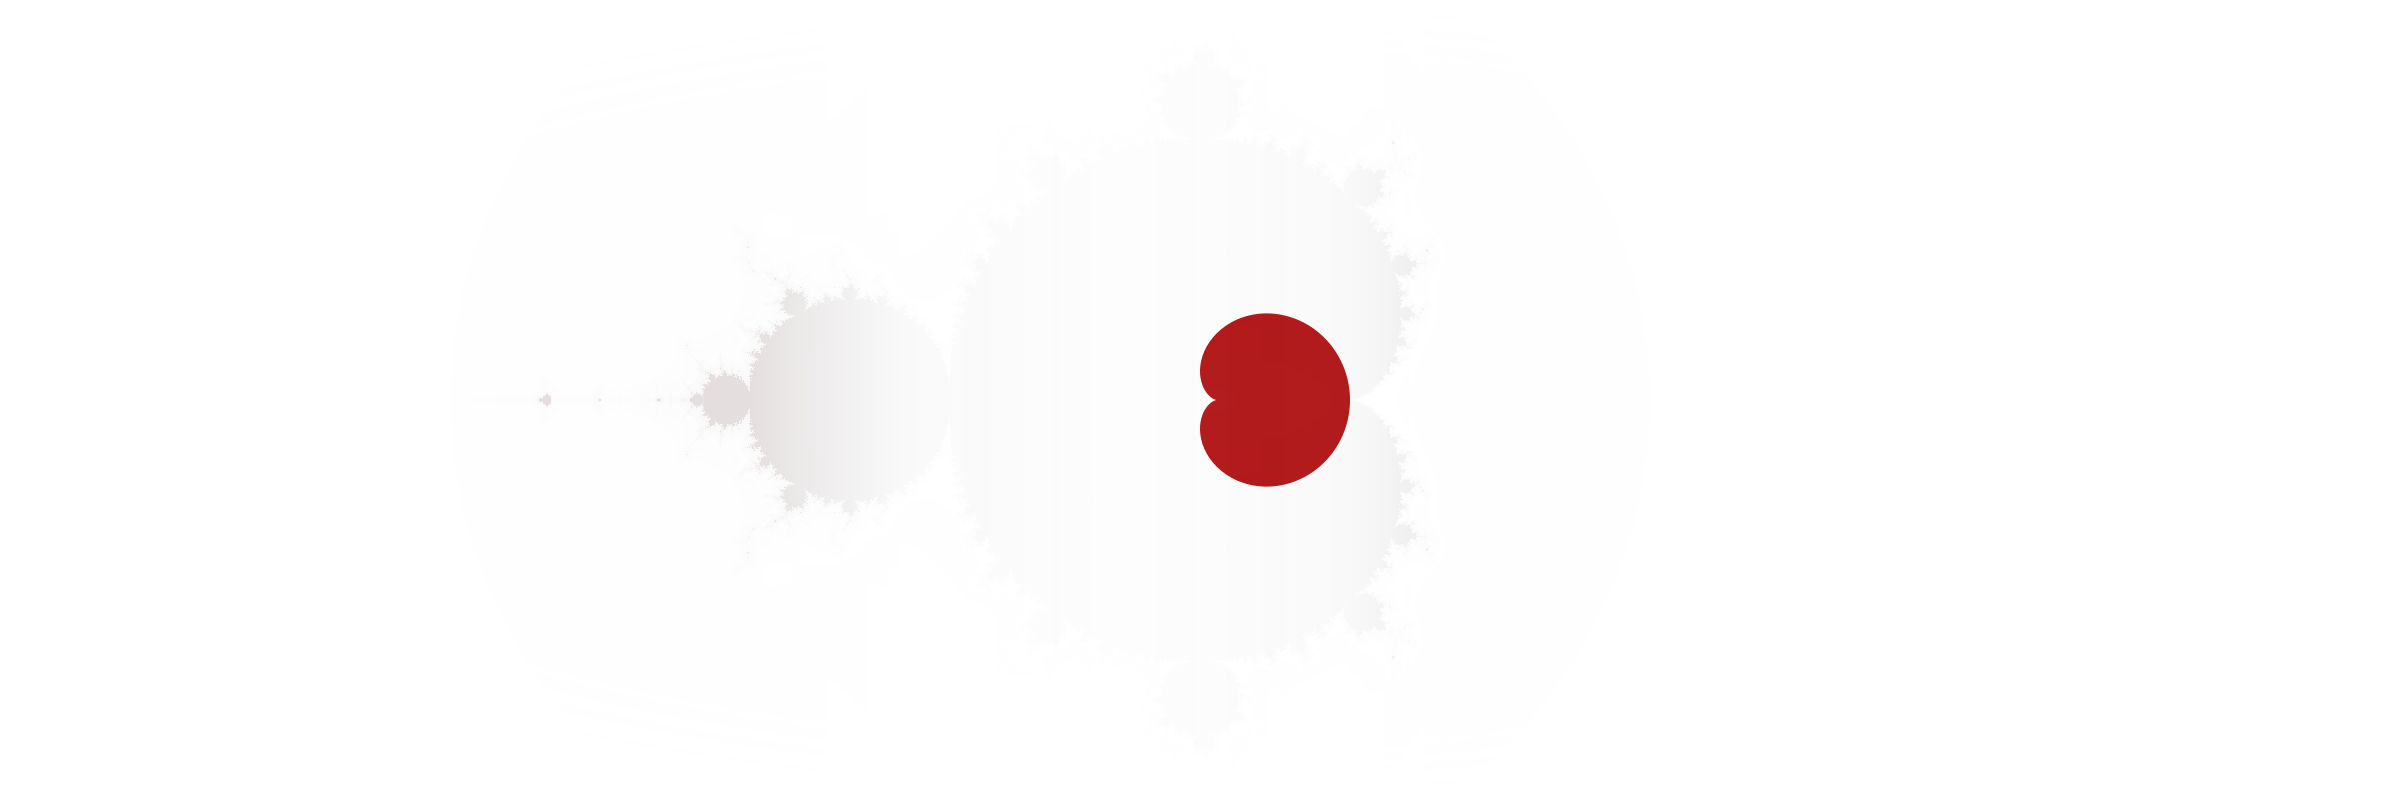
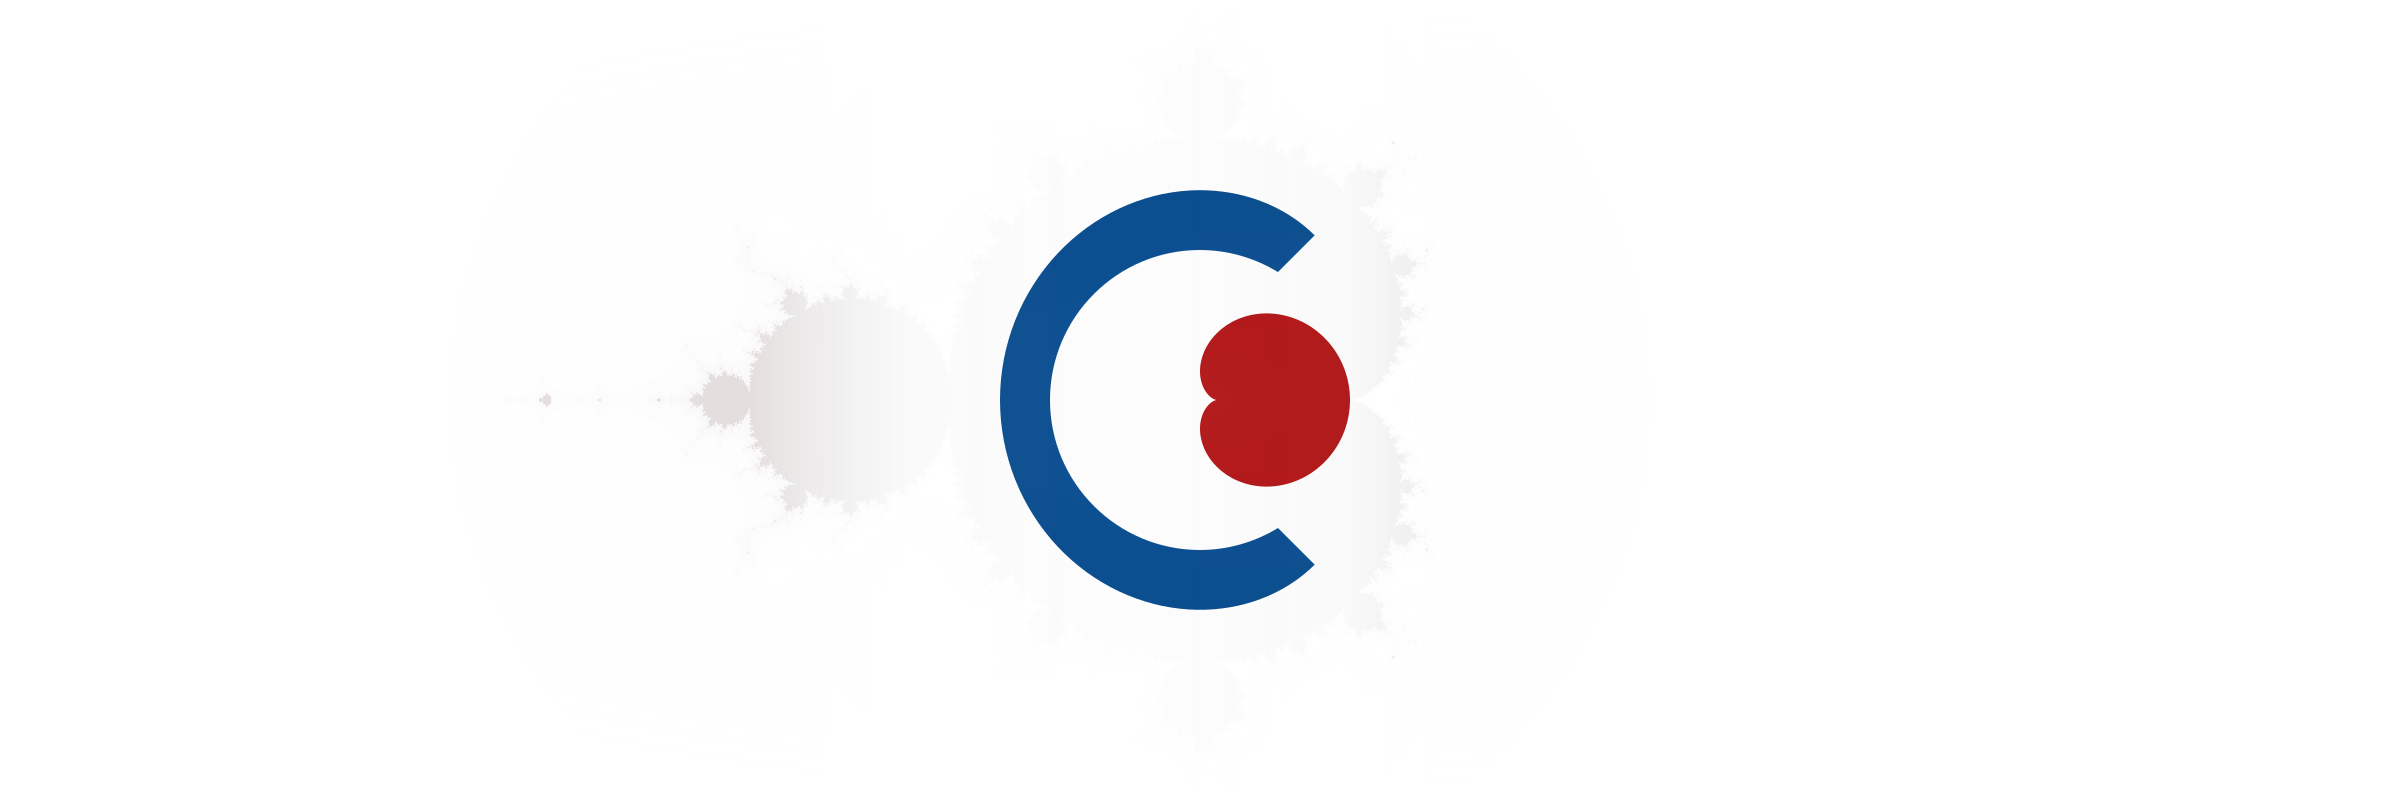
Blue header

Changed region(s): [[0.4062, 0.2188, 0.5625, 0.7812]]

diff --git a/cardioid.js b/cardioid.js
@@ -25,10 +25,13 @@ Vector.polar = function(a, r=1) {
 	return new Vector(r*Math.cos(a), r*Math.sin(a))
 }
 
+const finish = new Event('finish');
+
 class Cardioid {
-	constructor(canvas, colours={}) {
+	constructor(canvas, colours={}, unitSize=0.15) {
 		this.canvas = canvas;
 		this.ctx = canvas.getContext('2d');
+		this.running = true;
 
 		this.t = {}; this.m = {}; this.p = {}; this.style = {};
 		this.t.ti  = 0.2; // pause between steps
@@ -45,16 +48,22 @@ class Cardioid {
 		this.t.dur = this.t.t6 + this.t.dt6 + this.t.ti; // end
 
 		this.p.nPoints = 400;
-		this._getMeasures();
+		this._getMeasures(unitSize);
 		this._getCardPoints();
-		window.onresize = (function(){this._getMeasures(); this._getCardPoints(); this.nextFrame();}).bind(this);
+		window.onresize = (function(){this._getMeasures(unitSize); this._getCardPoints(); this.nextFrame();}).bind(this);
 
-		this.style.bg = colours.bg || null;
 		this.style.red = colours.red || '#b00d0e';
 		this.style.grey = colours.grey || '#646464';
 		this.style.white = colours.white || '#fff';
+		this.style.colBG = colours.bg || null;
+		this.style.colBrot = colours.brot || this.style.red;
+		this.style.colDraw = colours.draw || this.style.colBrot;
+		this.style.colEvol = colours.evol || this.style.white;
+		this.style.colC = colours.c || this.style.white;
+		this.style.colBase = colours.base || this.style.red;
+		this.style.colRoll = colours.roll || this.style.grey;
 		this.style.faded = 0.3;
-		this.style.sw1 = this.m.circR/30;
+		this.style.sw1 = this.m.circR/22.5;
 		this.style.sw2 = this.m.circR/15;
 
 		this.brot = new Image(this.m.brotSize, this.m.brotSize);
@@ -68,6 +77,7 @@ class Cardioid {
 
 	setTime(t) {
 		this.t.start = performance.now() - 1000*t;
+		this.running = true;
 		this.nextFrame();
 	}
 
@@ -81,8 +91,8 @@ class Cardioid {
 		this.t.t = (timestamp - this.t.start)/1000;
 
 		this.ctx.clearRect(0, 0, this.m.W, this.m.H);
-		if (this.style.bg) {
-			this.ctx.fillStyle = this.style.bg;
+		if (this.style.colBG) {
+			this.ctx.fillStyle = this.style.colBG;
 			this.ctx.fillRect(0, 0, this.m.W, this.m.H);
 		}
 		this.ctx.save();
@@ -96,13 +106,13 @@ class Cardioid {
 					lineEnd = -2*this.m.circR - this._ease(this.t.t, this.t.t1c, this.t.dt1c, 0, this.m.circR);
 
 			this.ctx.lineWidth = this.style.sw1;
-			this.ctx.strokeStyle = this.style.red;
+			this.ctx.strokeStyle = this.style.colBase;
 			this._circle(circ1R); this.ctx.stroke();
-			this.ctx.strokeStyle = this.style.grey;
+			this.ctx.strokeStyle = this.style.colRoll;
 			this._circle(circ2R, -2*this.m.circR, 0); this.ctx.stroke();
 			this._drawShape([[-2*this.m.circR, 0], [lineEnd, 0]]); this.ctx.stroke();
 
-			this.ctx.fillStyle = this.style.grey;
+			this.ctx.fillStyle = this.style.colRoll;
 			this._circle(pointsR, -2*this.m.circR, 0); this.ctx.fill();
 			this._circle(pointsR, lineEnd, 0); this.ctx.fill();
 
@@ -112,18 +122,19 @@ class Cardioid {
 					rollC = Vector.polar(rollAngle, -2*this.m.circR),
 					cardPoint = rollC.add(Vector.polar(2*rollAngle, -this.m.circR));
 
-			this.ctx.strokeStyle = this.style.red;
+			this.ctx.strokeStyle = this.style.colDraw;
 			this.ctx.lineWidth = this.style.sw2;
 			this._drawShape(this.p.cardPoints, rollAngle); this.ctx.stroke();
 
+			this.ctx.strokeStyle = this.style.colBase;
 			this.ctx.lineWidth = this.style.sw1;
 			this._circle(this.m.circR); this.ctx.stroke();
 
-			this.ctx.strokeStyle = this.style.grey;
+			this.ctx.strokeStyle = this.style.colRoll;
 			this._circle(this.m.circR, rollC.x, rollC.y); this.ctx.stroke();
 			this._drawShape([rollC.xy, cardPoint.xy]); this.ctx.stroke();
 
-			this.ctx.fillStyle = this.style.grey;
+			this.ctx.fillStyle = this.style.colRoll;
 			this._circle(this.m.pointR, rollC.x, rollC.y); this.ctx.fill();
 			this._circle(this.m.pointR, cardPoint.x, cardPoint.y); this.ctx.fill();
 
@@ -133,19 +144,21 @@ class Cardioid {
 					newR = this._ease(this.t.t, this.t.t3, this.t.dt3, this.m.circR, this.m.curv.r),
 					newX = this._ease(this.t.t, this.t.t3, this.t.dt3, -2*this.m.circR, this.m.curv.evolute.x),
 					paraX = this._ease(this.t.t, this.t.t3, this.t.dt3, cardX, cardX + this.m.cardBorder),
-					fadeOut = this._rgba(this.style.red, this._ease(this.t.t, this.t.t3, this.t.dt3, 1, this.style.faded));
+					fadeDraw = this._rgba(this.style.colDraw, this._ease(this.t.t, this.t.t3, this.t.dt3, 1, this.style.faded)),
+					fadeBase = this._rgba(this.style.colBase, this._ease(this.t.t, this.t.t3, this.t.dt3, 1, this.style.faded));
 
-			this.ctx.strokeStyle = fadeOut;
+			this.ctx.strokeStyle = fadeDraw;
 			this.ctx.lineWidth = this.style.sw2;
 			this._drawShape(this.p.cardPoints); this.ctx.stroke();
+			this.ctx.strokeStyle = fadeBase;
 			this.ctx.lineWidth = this.style.sw1;
 			this._circle(this.m.circR); this.ctx.stroke();
 
-			this.ctx.strokeStyle = this.style.grey;
+			this.ctx.strokeStyle = this.style.colRoll;
 			this._circle(newR, newX, 0); this.ctx.stroke();
 			this._drawShape([[cardX, 0], [paraX, 0], [newX, 0]]); this.ctx.stroke();
 
-			this.ctx.fillStyle = this.style.grey;
+			this.ctx.fillStyle = this.style.colRoll;
 			this._circle(this.m.pointR, newX, 0); this.ctx.fill();
 			this._circle(this.m.pointR, paraX, 0); this.ctx.fill();
 
@@ -165,11 +178,11 @@ class Cardioid {
 			let paraXY = this.m.curv.point.add(this.m.curv.unit.mult(paraR));
 
 
-			this.ctx.strokeStyle = this._rgba(this.style.red, this.style.faded);
+			this.ctx.strokeStyle = this._rgba(this.style.colDraw, this.style.faded);
 			this.ctx.lineWidth = this.style.sw2;
 			this._drawShape(this.p.cardPoints); this.ctx.stroke()
 
-			this.ctx.strokeStyle = this.style.red;
+			this.ctx.strokeStyle = this.style.colDraw;
 			this._drawShape(this.p.paraPoints, evolAngle); this.ctx.stroke()
 			this._drawShape(this.p.evolPoints, evolAngle); this.ctx.stroke()
 
@@ -181,21 +194,22 @@ class Cardioid {
 				this._drawShape(this.p.line225); this.ctx.stroke();
 			}
 
-			this.ctx.strokeStyle = this._rgba(this.style.red, this.style.faded);
+			this.ctx.strokeStyle = this._rgba(this.style.colBase, this.style.faded);
 			this._circle(this.m.circR); this.ctx.stroke()
 
-			this.ctx.strokeStyle = this.style.grey;
+			this.ctx.strokeStyle = this.style.colRoll;
 			this._circle(this.m.curv.r, this.m.curv.evolute.x, this.m.curv.evolute.y); this.ctx.stroke();
 			this._drawShape([this.m.curv.point.xy, paraXY.xy, this.m.curv.evolute.xy]); this.ctx.stroke()
 
-			this.ctx.fillStyle = this.style.grey;
+			this.ctx.fillStyle = this.style.colRoll;
 			this._circle(this.m.pointR, paraXY.x, paraXY.y); this.ctx.fill();
 			this._circle(this.m.pointR, this.m.curv.evolute.x, this.m.curv.evolute.y); this.ctx.fill();
 
 		} else if (this.t.t < this.t.t6) {
 			// inner circle
-			let fadeIn = this._rgba(this.style.red, this._ease(this.t.t, this.t.t5, this.t.dt5, this.style.faded, 1)),
-			    fadeOut = this._rgba(this.style.grey, this._ease(this.t.t, this.t.t5, this.t.dt5, 1, 0)),
+			let fadeBase = this._rgba(this.style.colBase, this._ease(this.t.t, this.t.t5, this.t.dt5, this.style.faded, 1)),
+			    fadeDraw = this._rgba(this.style.colDraw, this._ease(this.t.t, this.t.t5, this.t.dt5, this.style.faded, 1)),
+			    fadeRoll = this._rgba(this.style.colRoll, this._ease(this.t.t, this.t.t5, this.t.dt5, 1, 0)),
 			    paraXY = this.m.curv.point.add(this.m.curv.unit.mult(this.m.cardBorder)),
 			    circ1R = this._ease(this.t.t, this.t.t5, this.t.dt5, this.m.circR, this.m.innerR),
 			    circ1X = -this._ease(this.t.t, this.t.t5, this.t.dt5, 0, this.m.originOffsetFinal),
@@ -203,7 +217,7 @@ class Cardioid {
 			    strokeWidth = this._ease(this.t.t, this.t.t5, this.t.dt5, this.style.sw1, this.style.sw2);
 			this.ctx.translate(moveCentre, 0);
 
-			this.ctx.strokeStyle = this.style.red;
+			this.ctx.strokeStyle = this.style.colDraw;
 			this.ctx.lineWidth = strokeWidth;
 			this._drawShape(this.p.line135); this.ctx.stroke();
 			this._drawShape(this.p.line225); this.ctx.stroke();
@@ -212,18 +226,19 @@ class Cardioid {
 			this._drawShape(this.p.paraPoints); this.ctx.stroke();
 			this._drawShape(this.p.evolPoints); this.ctx.stroke();
 
-			this.ctx.strokeStyle = fadeIn;
+			this.ctx.strokeStyle = fadeDraw;
 			this._drawShape(this.p.cardPoints); this.ctx.stroke();
 
+			this.ctx.strokeStyle = fadeBase;
 			this.ctx.lineWidth = strokeWidth;
 			this._circle(circ1R, circ1X, 0); this.ctx.stroke();
 
-			this.ctx.strokeStyle = fadeOut;
+			this.ctx.strokeStyle = fadeRoll;
 			this.ctx.lineWidth = this.style.sw1;
 			this._circle(this.m.curv.r, this.m.curv.evolute.x, this.m.curv.evolute.y); this.ctx.stroke();
 			this._drawShape([this.m.curv.point.xy, paraXY.xy, this.m.curv.evolute.xy]); this.ctx.stroke();
 
-			this.ctx.fillStyle = fadeOut;
+			this.ctx.fillStyle = fadeRoll;
 			this._circle(this.m.pointR, paraXY.x); this.ctx.fill();
 			this._circle(this.m.pointR, this.m.curv.evolute.x, this.m.curv.evolute.y); this.ctx.fill();
 
@@ -235,14 +250,14 @@ class Cardioid {
 			this.ctx.translate(this.m.originOffsetFinal - this.m.originOffsetInitial, 0);
 
 			this._drawBrot();
-			this.ctx.fillStyle = this.style.red;
+			this.ctx.fillStyle = this.style.colBrot;
 			this._drawShape(this.p.cardPoints); this.ctx.fill();
-			this.ctx.fillStyle = this.style.white;
+			this.ctx.fillStyle = this.style.colC;
 			this._drawShape(this.p.paraPoints); this.ctx.fill();
-			this.ctx.fillStyle = this.style.red;
+			this.ctx.fillStyle = this.style.colBrot;
 			this._drawShape(this.p.cMask); this.ctx.fill();
 			this._circle(this.m.innerR, -this.m.originOffsetFinal, 0); this.ctx.fill();
-			this.ctx.fillStyle = this.style.white;
+			this.ctx.fillStyle = this.style.colEvol;
 			this._drawShape(this.p.evolPoints); this.ctx.fill();
 
 			// fade the above in
@@ -253,20 +268,24 @@ class Cardioid {
 			this.ctx.globalCompositeOperation = "source-over";
 
 			if (strokeWidth > 0) {
-				this.ctx.strokeStyle = this.style.red;
+				this.ctx.strokeStyle = this.style.colDraw;
 				this.ctx.lineWidth = strokeWidth;
 				this._drawShape(this.p.cardPoints); this.ctx.stroke();
 				this._drawShape(this.p.paraPoints); this.ctx.stroke();
-				this._circle(this.m.innerR, -this.m.originOffsetFinal, 0); this.ctx.stroke()
 				this._drawShape(this.p.line135); this.ctx.stroke();
 				this._drawShape(this.p.line225); this.ctx.stroke();
 				this._drawShape(this.p.evolPoints); this.ctx.stroke();
+				this.ctx.strokeStyle = this.style.colBase;
+				this._circle(this.m.innerR, -this.m.originOffsetFinal, 0); this.ctx.stroke()
 			}
 		}
 
 		this.ctx.restore();
 		if (this.t.t < this.t.dur) {
 			this.nextFrame();
+		} else {
+			this.canvas.dispatchEvent(finish);
+			this.running = false;
 		}
 	}
 
@@ -281,7 +300,7 @@ class Cardioid {
 
 	_drawBrot() {
 		let rect = [-this.m.brotSize/2, -this.m.brotSize/2, this.m.brotSize, this.m.brotSize];
-		this.ctx.fillStyle = this.style.red;
+		this.ctx.fillStyle = this.style.colBrot;
 		this.ctx.fillRect(...rect);
 		this.ctx.globalCompositeOperation = "destination-in";
 		this.ctx.drawImage(this.brot, ...rect);
@@ -320,10 +339,10 @@ class Cardioid {
 		return grad;
 	}
 
-	_getMeasures() {
-		this.m.W = canvas.offsetWidth; this.m.H = canvas.offsetHeight;
-		canvas.width = this.m.W; canvas.height = this.m.H;
-		this.m.circR = 0.15*Math.min(this.m.H, this.m.W);
+	_getMeasures(unitSize) {
+		this.m.W = this.canvas.offsetWidth; this.m.H = this.canvas.offsetHeight;
+		this.canvas.width = this.m.W; this.canvas.height = this.m.H;
+		this.m.circR = unitSize*Math.min(this.m.H, this.m.W);
 		this.m.pointR = this.m.circR/20;
 		this.m.cardBorder = this.m.circR/2;
 		this.m.innerR = this.m.circR*3/2;
@@ -384,5 +403,33 @@ class Cardioid {
 		// unit normal vector
 		o.unit = o.vect.mult(1/o.r);
 		return o;
+	}
+}
+
+if (typeof($) != 'undefined' && $('#header_image').length>0) {
+	let headerTimeout = null, headerCard = null, waitTime=2000, fadeTime = 1000;
+	$('#header_image').on({
+		'mouseover': () => {headerTimeout = setTimeout(headerAnim, waitTime);},
+		'mouseout': () => {clearTimeout(headerTimeout);}
+	});
+	function headerAnim() {
+		let img = $('#header_image img');
+		$('#header_image').css('position', 'relative');
+		if (!headerCard) {
+			let canv = $('<canvas>');
+			canv.insertBefore(img);
+			canv.on('finish', () => {
+				img.animate({opacity:1}, fadeTime, () => {
+					canv.animate({opacity:0}, fadeTime);
+				});
+			});
+			headerCard = new Cardioid(canv.get(0), {brot:'#fff', c:'#01488d', evol:'#b00d0e', base:'#fff', roll:'#8df'}, 0.125);
+			img.animate({opacity:0}, fadeTime);
+		} else if (!headerCard.running) {
+			// Restart
+			headerCard.setTime(0);
+			headerCard.canvas.style.opacity = 1;
+			img.animate({opacity:0}, fadeTime);
+		}
 	}
 }

diff --git a/assets/css/style.scss b/assets/css/style.scss
@@ -6,6 +6,7 @@
 section #title {margin-bottom: 1em;}
 #header_image {width: 100%; text-align: center;}
 #header_image img {max-height: 10em;}
+#header_image canvas {width: 100%; height: 100%; position: absolute; left: 0; top: 0; z-index: -1;}
 
 h1 {font-size: 32px;}
 a {color: #8df;}
